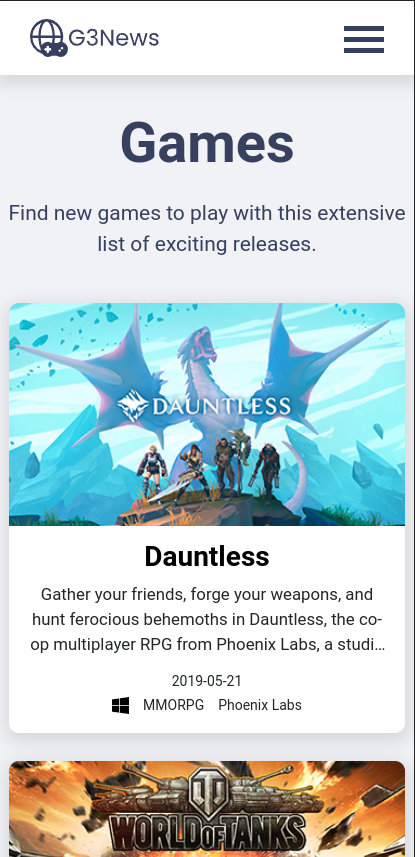
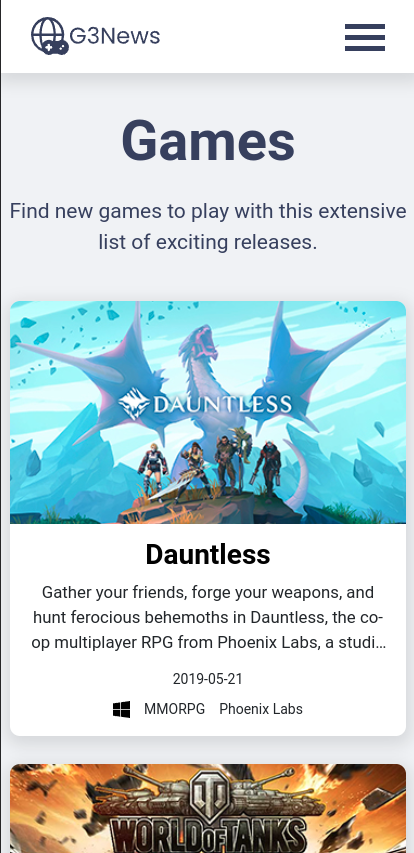
Increased margin on game release date

diff --git a/src/components/GamesListItem/styles.ts b/src/components/GamesListItem/styles.ts
@@ -123,7 +123,7 @@ export const GameExtraDetailsContainer = styled.div`
   gap: 1rem;
 
   @media (max-width: 594px) {
-    margin-top: 0.2rem;
+    margin-top: 0.6rem;
   }
 `;
 
